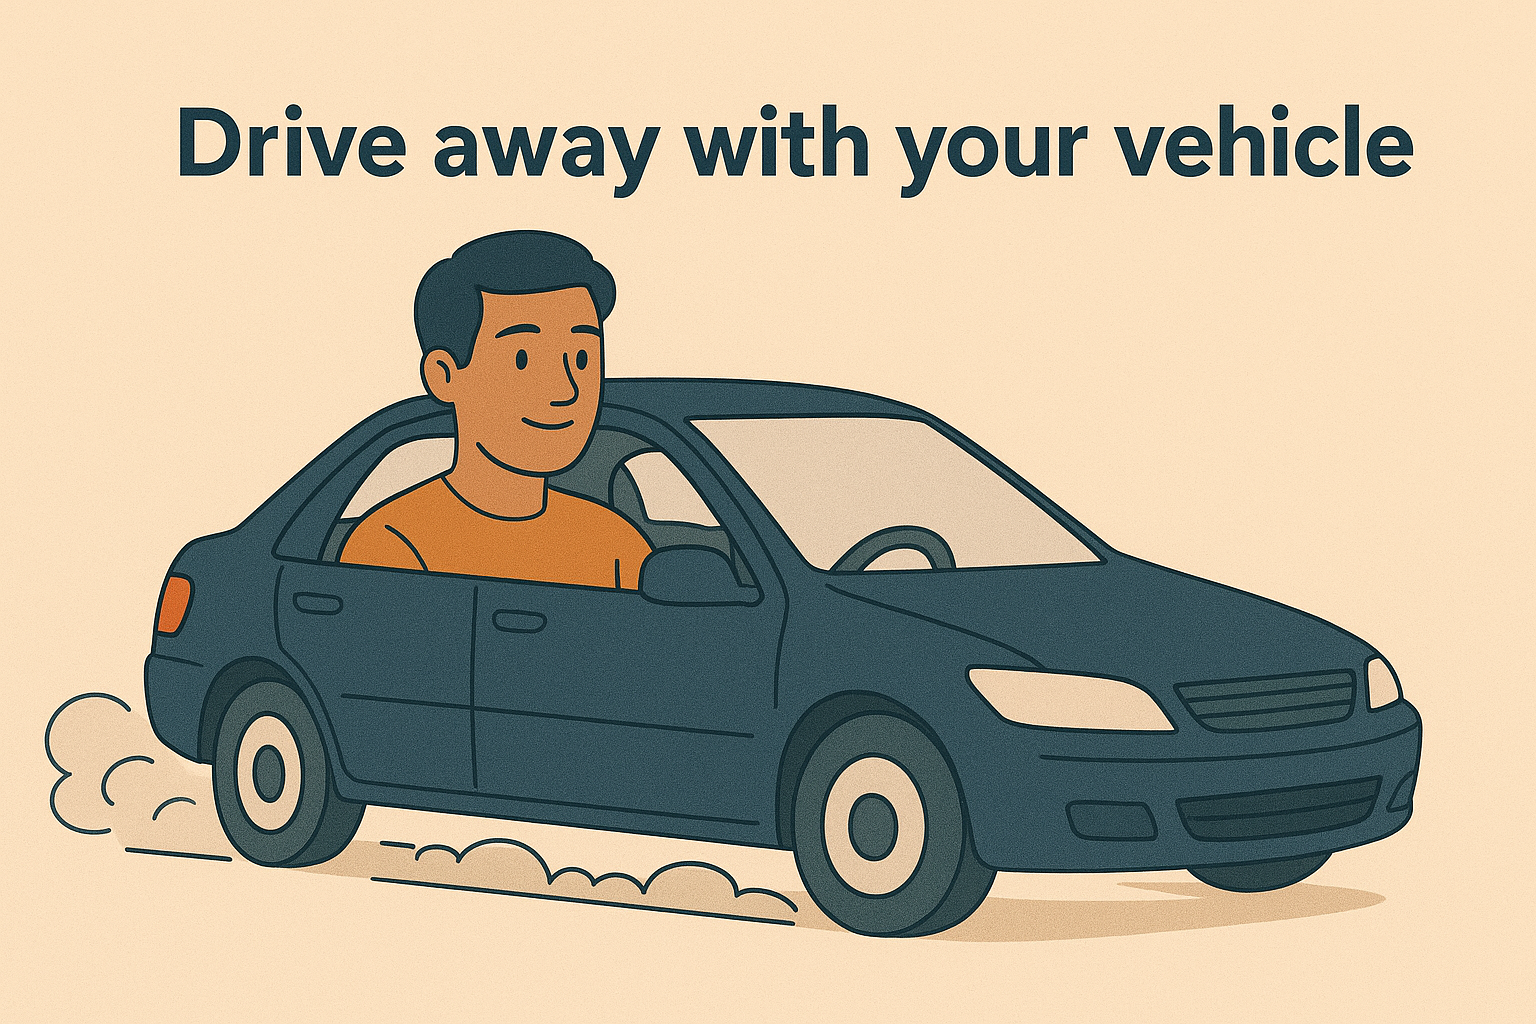
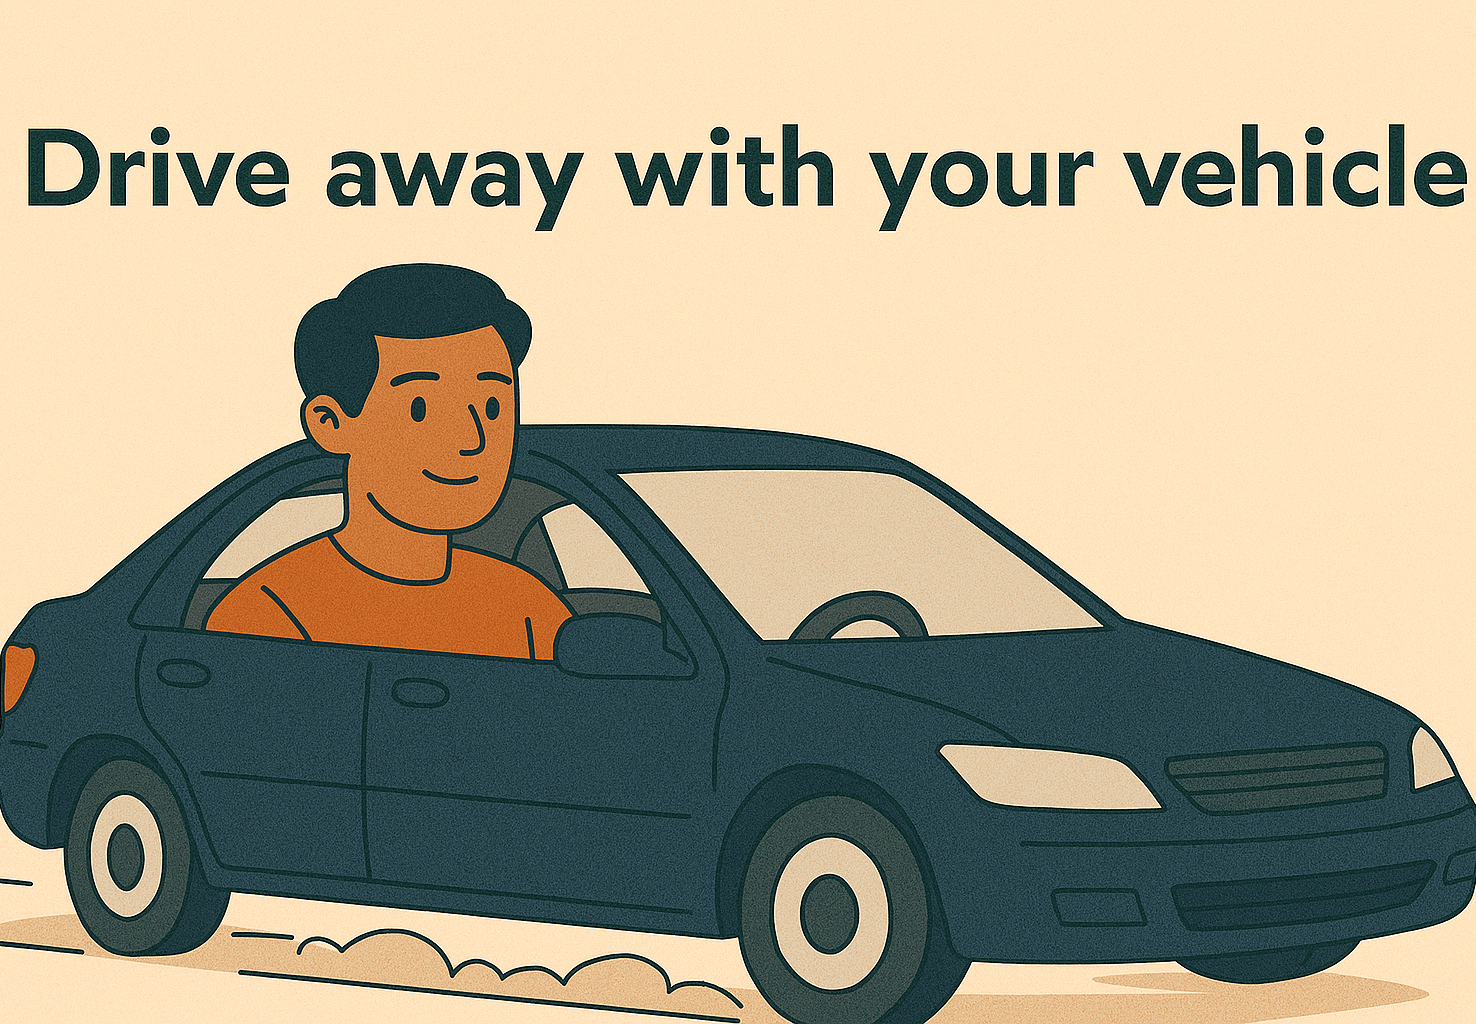
ddfdf

diff --git a/index.html b/index.html
@@ -455,7 +455,8 @@
                             <div class="row g-4">
                                 <div class="col-md-6" style="min-height: 350px;">
                                     <div class="position-relative h-100">
-                                        <img class="position-absolute rounded w-100 h-100" src="img/document_submittion.png" style="object-fit: cover;" alt="">
+                                        <img src="img/document_submittion.png" alt="Quick Approval" class="img-fluid">
+
                                     </div>
                                 </div>
                                 <div class="col-md-6">
@@ -472,7 +473,8 @@
                             <div class="row g-4">
                                 <div class="col-md-6" style="min-height: 350px;">
                                     <div class="position-relative h-100">
-                                        <img class="position-absolute rounded w-100 h-100" src="img/quick_approval.webp" style="object-fit: cover;" alt="">
+                                        <img src="img/quick_approval.png" alt="Quick Approval" class="img-fluid">
+
                                     </div>
                                 </div>
                                 <div class="col-md-6">
@@ -489,7 +491,8 @@
                             <div class="row g-4">
                                 <div class="col-md-6" style="min-height: 350px;">
                                     <div class="position-relative h-100">
-                                        <img class="position-absolute rounded w-100 h-100" src="img/service-4.jpg" style="object-fit: cover;" alt="">
+                                        <img src="img/service-4.png" alt="Quick Approval" class="img-fluid">
+
                                     </div>
                                 </div>
                                 <div class="col-md-6">
@@ -506,7 +509,8 @@
                             <div class="row g-4">
                                 <div class="col-md-6" style="min-height: 350px;">
                                     <div class="position-relative h-100">
-                                        <img class="position-absolute rounded w-100 h-100" src="img/drive_away.png" style="object-fit: cover;" alt="">
+                                        <img src="img/drive_away.png" alt="Quick Approval" class="img-fluid">
+
                                     </div>
                                 </div>
                                 <div class="col-md-6">
@@ -741,5 +745,7 @@
     <!-- Template Javascript -->
     <script src="js/main.js"></script>
 </body>
+
+</html>
 
 </html>
